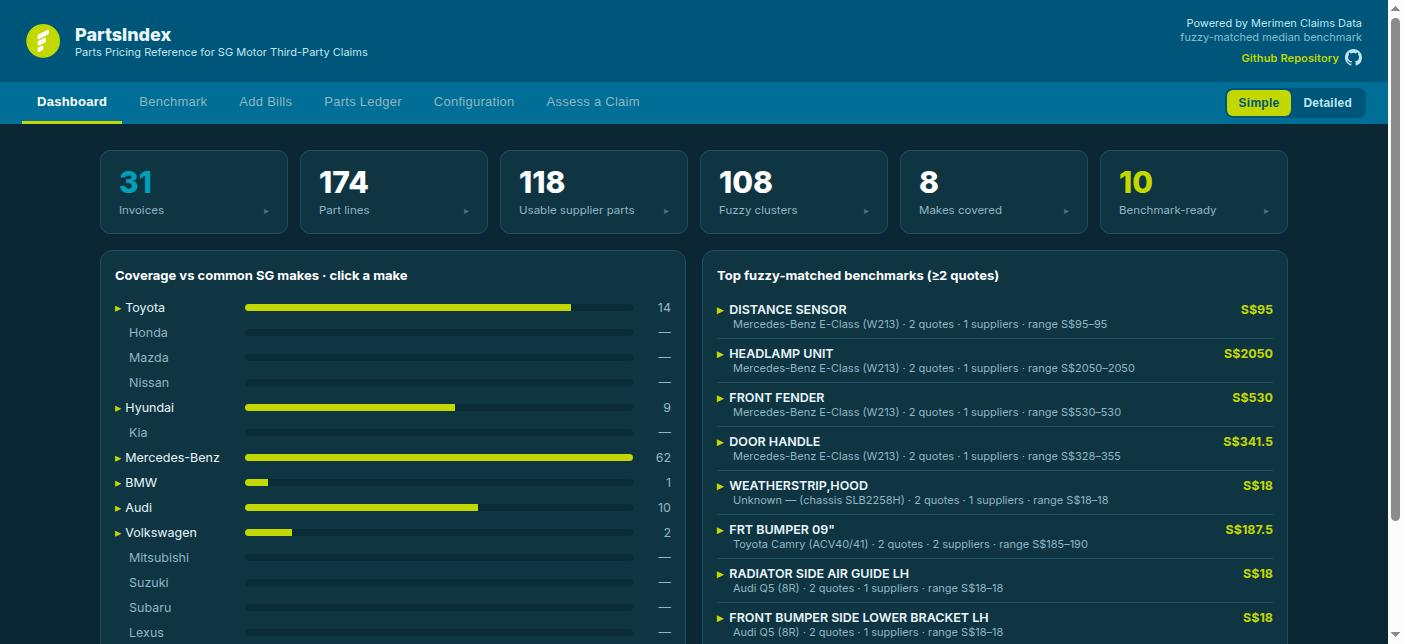
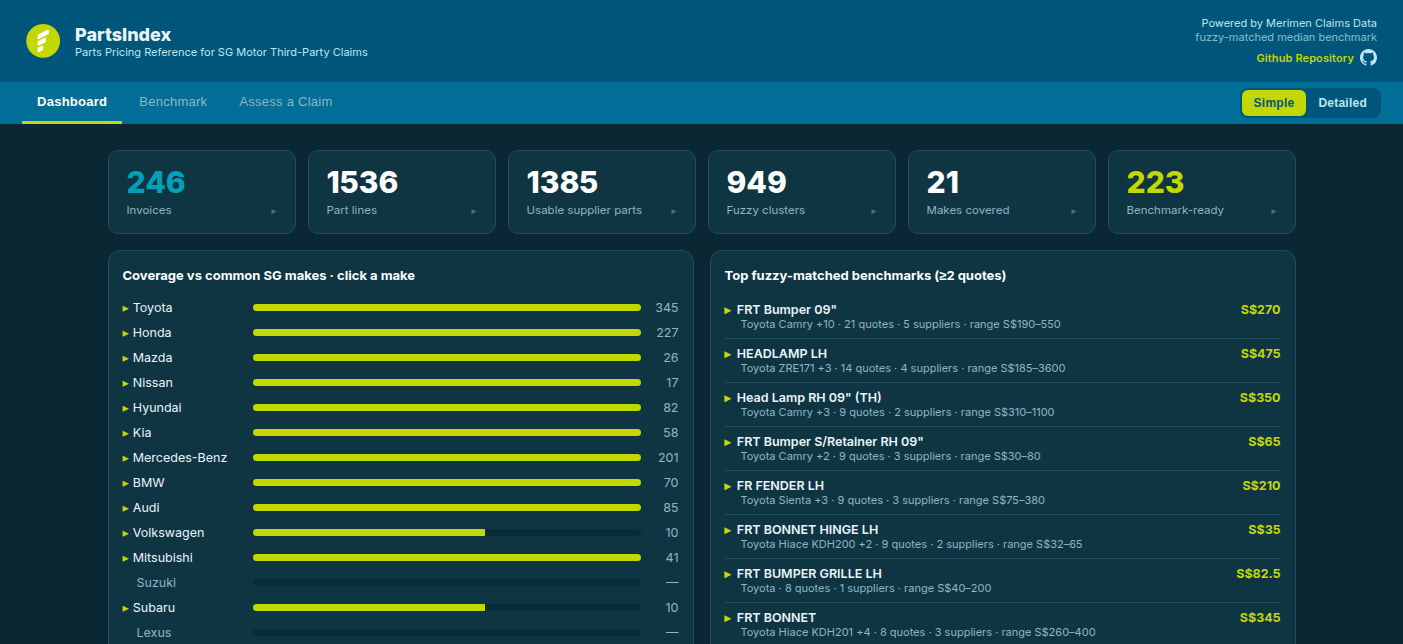
Refresh the docs for handover; retake the README screenshot
Docs only; no change to the app or its numbers.

- HANDOVER §7 summarises the October 2026 checks (OCR second reading,
  part-number lookups, keep the median) and updates the open gaps and
  recommendations, including the two reviewer workbooks still pending.
- README and HANDOVER: Simple mode shows three tabs, not six; there is no
  GitHub Pages workflow in the repo (deploy Pages with npm run deploy).
- README file tree adds QA.md, validation/, tools/backfill-make.mjs and
  ci.yml; limitations give the live coverage figure and October findings.
- OPUS_PROMPTS status brought up to v1.18.0; Fable F3 marked half shipped;
  MANUAL checklist gets the October OCR estimate.
- README screenshot retaken from the current build on the live shared
  reference (1,536 lines) in Simple mode.

diff --git a/HANDOVER.md b/HANDOVER.md
@@ -1,6 +1,7 @@
 # HANDOVER.md — PartsIndex for a new developer
 
-*Written at v1.8.0, July 2026; §7 refreshed at v1.18.0, 29 September 2026.
+*Written at v1.8.0, July 2026; §7 refreshed at v1.18.0, 29 September 2026,
+and again on 20 October 2026 for the October data-validity checks.
 Assumes you know JavaScript and some React, but nothing about this project or
 the insurance domain. Read this top to bottom once; after that,
 [`MANUAL.md`](./MANUAL.md) is the full reference and [`QA.md`](./QA.md) is what
@@ -47,7 +48,8 @@ persists in your browser's `localStorage` (or a shared Turso/libSQL DB when
 cleared — it won't re-seed). The Add Bills tab's **activity log** persists the same
 way (see §4) and every data table is **click-to-sort** on any column. A
 **Simple/Detailed** toggle (top right, persisted per browser) opens in Simple
-by default, hiding Analytics, Coverage and Method Notes; Demo/Benchmark/Ingest
+by default, showing only Dashboard, Benchmark and Assess a Claim (the matching
+settings stay reachable from the top of Benchmark); Demo/Benchmark/Ingest
 were renamed Benchmark/Configuration/Add Bills in v1.15.0 — see §7.
 
 The **"OCR invoices"** button will *not* work locally with plain `vite`,
@@ -65,7 +67,7 @@ src/pipeline.js     ← THE most important file. All pure logic: enrichment,
                        No browser APIs. Imported by the app, the eval
                        harness AND the batch runner — change it and you
                        change all three.
-src/PartsIndex.jsx  ← The entire React UI (~1,330 lines): all tabs, state,
+src/PartsIndex.jsx  ← The entire React UI (~2,000 lines): all tabs, state,
                        persistence glue, Excel parsing, OCR fetch. Also the
                        shared useSort/SortTh table-sort layer and the persistent
                        activity log (logEvent + ActivityLog/ActivityDetail).
@@ -94,10 +96,13 @@ eval/               ← Matcher evaluation harness: generate candidate part
 ```
 
 Docs: `README.md` (deploy + feature overview), `MANUAL.md` (everything,
-including the project history and current limitations in §9),
-`OCR_PROMPT.md` (the extraction prompt explained), `CHANGELOG.md`,
-`OPUS_PROMPTS.md` (ready-to-run implementation prompts for planned work),
-`Fable.md` (the feature roadmap those prompts implement).
+including the project history and current limitations in §9), `QA.md` (what
+the live data actually looks like — read before quoting any figure),
+`OCR_PROMPT.md` (the extraction prompt explained), `Cost-Estimation.md` (OCR
+run costs), `CHANGELOG.md`, `OPUS_PROMPTS.md` (ready-to-run implementation
+prompts for planned work), `Fable.md` (the feature roadmap those prompts
+implement). `validation/2026-10/` holds the workbooks, data snapshots and
+scripts behind QA.md's October 2026 updates (its own `README.md` explains them).
 
 ## 4. The six concepts you must understand
 
@@ -253,8 +258,10 @@ import into Vercel, set `ANTHROPIC_API_KEY` and — on the shared backend —
 `TURSO_DATABASE_URL`, `TURSO_AUTH_TOKEN` and `PARTS_WRITE_TOKEN` in
 project settings. **Without `PARTS_WRITE_TOKEN` set, every `mode:"replace"`
 write is refused** (the guard fails closed by design), so a CLI re-import will
-401 until it exists. Generate one with `openssl rand -hex 32`. GitHub Pages also works (CI workflow included) but the OCR
-button won't function there. Full steps in `README.md`.
+401 until it exists. Generate one with `openssl rand -hex 32`. GitHub Pages also works
+via `npm run deploy` (there is no Pages workflow in the repo; the only workflow,
+`ci.yml`, tests and builds), but the OCR button won't function there. Full
+steps in `README.md`.
 
 ## 7. Current state and what's next
 
@@ -262,7 +269,7 @@ button won't function there. Full steps in `README.md`.
 a Test-mode toggle and a duplicate-line detection gate alongside the
 totals-reconciliation gate), hybrid matcher with grade / basis / model /
 **positional** guards, nine tabs — a Simple/Detailed toggle (Simple by
-default) shows six and hides Analytics/Coverage/Method Notes — including the
+default) shows only Dashboard, Benchmark and Assess a Claim — including the
 stakeholder Benchmark lookup (shared *Min quotes* floor slider, leftmost `+`
 add control) with Worklist and Excel/PDF export, eight analytics views,
 Coverage with a make-vs-grade mix chart against 20 common SG makes, Assess a
@@ -276,8 +283,31 @@ Claude first pass done, adjuster labels still missing — see "Open gaps" below)
 and an opt-in, provisional *Flag name-matched benchmarks* setting.
 
 **The live shared reference** holds 1,536 part lines from 252 invoices (the
-bulk-OCR run has happened). `QA.md` (17 September 2026) is the data-validity
-exercise on it; read it before quoting any figure from the reference.
+bulk-OCR run has happened). `QA.md` (17 September 2026, updated October 2026)
+is the data-validity exercise on it; read it before quoting any figure from
+the reference.
+
+**October 2026 checks (docs and data only, no app release).** Two questions
+from the review call, answered provisionally in `QA.md` §7 and §9 with the
+files in `validation/2026-10/`:
+
+- *Is the OCR reading the bills correctly?* A second reading of 45 bills (474
+  lines) by Claude Opus 5.5 agreed on 96.8% of lines on the random bills, with
+  **0 price differences**; part-number lookups suggest about **3 wrong part
+  numbers per 100 lines**.
+- *Are the wide price ranges real?* Catalogue lookups of 106 lines from 16
+  benchmarks: the prices are plausible (median 1.19× the online genuine-part
+  price), but **42 of the 106 lines are the same part name on a different
+  car** — the S$85–3,600 headlamp range is 10 vehicles. Same conclusion as the
+  gold-set first pass: the fix is matching, not statistics.
+- *Which average?* Mean, median, trimmed mean, geometric mean and
+  Hodges–Lehmann were compared leave-one-out; **the median wins** and stays.
+  Stakeholder write-up: `validation/2026-10/Benchmark_statistic_recommendation_2026-10-16.docx`.
+
+Both answers wait on a person filling in the two `_with_lookups` reviewer
+workbooks in that folder. Unreleased UI changes since 1.18.0 (see CHANGELOG
+"Unreleased"): text columns wrap so the main tables fit without side-scrolling
+in Simple mode, tables fill their card, and the Claim history modal is wider.
 
 **1.18.0** added the **Flag name-matched benchmarks** setting (`cfg.flagNameJoined`),
 labelled PROVISIONAL and off by default. It sits in `MatchConfig`, so it shows on
@@ -375,7 +405,8 @@ missed in 1.12.2 is back in lockstep with package.json, and 3 new self-tests
 `PartsIndex.jsx`, `pipeline.js`, etc. that nothing imported but that invited
 edits which silently changed nothing — `src/` is now the single source of
 truth), added `.gitignore` / `.env.example` / the Pages deploy workflow the
-README already documented, corrected the batch runner's `--max-tokens`
+README already documented (neither the `.gitignore` nor the workflow actually
+reached the repo — see 1.17.3), corrected the batch runner's `--max-tokens`
 header (8192, matching the code and the app), and added
 **`Cost-Estimation.md`** — the cost model and step-by-step procedure for the
 200-invoice ingestion. See CHANGELOG 1.12.2.
@@ -392,7 +423,7 @@ calibration; in the event the data went in first. Every median in the live
 reference therefore rests on merges nobody has checked, and the check now has
 to happen after the fact (gap 1 below).
 
-### Open gaps — as of v1.18.0 (29 September 2026)
+### Open gaps — as of v1.18.0 (refreshed 20 October 2026)
 
 Sources: `QA.md` §10–11 and the v1.12.0 review list this replaces (its fixes —
 the multi-file stale closure, invisible save failures, the P1 positional false
@@ -413,6 +444,9 @@ merge, masked OCR failures, the open proxy, the repo hazards — are recorded in
    evidence? v1.18.0's opt-in flag is the stopgap until this is settled. Settle the LH/RH convention against the `sepSide`
    default in the same session (`QA.md` §5 argues pooling is safe). Everything
    in `QA.md` describes the spread of clusters whose correctness is assumed.
+   The October part-number lookups point the same way (42 of 106 lines were the
+   same part name on a different car; `QA.md` §9 update); a reviewer still has
+   to confirm them in `validation/2026-10/Price_range_check_2026-10-15_plain_with_lookups.xlsx`.
 2. **Thin coverage, overstated reliability.** Only 45 of 949 clusters meet the
    4-quote floor (271 lines, 17.6%). `n` counts lines, not independent
    observations — 8 of those 45 are one price re-quoted. `QA.md` §8 recommends
@@ -421,8 +455,14 @@ merge, masked OCR failures, the open proxy, the repo hazards — are recorded in
    benchmark output, so it belongs in `cfg`.
 3. **OCR errors already in the live data.** 14 part-number pairs differ by one
    misread character (`I`/`1`, `B`/`S`, `9`/`3`), each splitting a cluster; and
-   field bleed between rows (a rivet's part number on a bumper line). Prompt/QA
-   track, not matcher work (`QA.md` §7).
+   field bleed between rows (a rivet's part number on a bumper line). The
+   October second reading puts it at about 3 wrong part numbers per 100 lines,
+   with no price errors — provisional until a person checks the 25 flagged rows
+   and the 34-line blind sample in
+   `validation/2026-10/OCR_accuracy_check_2026-10-15_plain_with_lookups.xlsx`.
+   Prompt/QA track, not matcher work (`QA.md` §7). Related: Lexus parts are
+   stored with make Toyota, so they can join Toyota benchmarks (`QA.md` §9
+   update).
 4. **No operator-side delete.** Since 1.17.3 the UI writes append-only, so bad
    rows cannot be removed — including the 14 stray "Run Log" rows in the live
    reference. `tools/prune-parts.mjs` (token-guarded, snapshot-first like
@@ -449,8 +489,10 @@ merge, masked OCR failures, the open proxy, the repo hazards — are recorded in
      live lines (MANUAL §9, matcher issue 5); parked as too complex for now.
    - The Benchmark-tab worklist is not saved: leaving the tab, reloading or
      toggling Simple/Detailed silently empties it (MANUAL §9).
+   - Side-scrolling: in Simple mode every main table fits from a 1,100 px
+     window; at 1,024 px the Benchmark table is still slightly too wide.
 
-### Recommendations (refreshed September 2026)
+### Recommendations (refreshed October 2026)
 
 - **Label the gold set next**, from live pairs, before any new statistical
   display or presentation of the reference — the review call asked "at 0.65,
@@ -458,6 +500,11 @@ merge, masked OCR failures, the open proxy, the repo hazards — are recorded in
 - **Lead any presentation with the coverage figure** (17.6% of lines can
   price anything at `minQuotes: 4`) — it frames every other number and must
   not be discovered by the audience.
+- **Keep the median as the benchmark** and show the Q1–Q3 band beside it;
+  the October comparison (`QA.md` §9) found no average that does better, and
+  that matching, not the statistic, drives the error.
+- **Get the two October reviewer workbooks filled in** (`validation/2026-10/`)
+  before quoting the OCR error rate or the price-range breakdown as final.
 - **Implement the independence-based `reliable` flag** once the matcher is
   calibrated; both change which clusters are shown as authoritative.
 - **For further OCR runs**, keep `--mode batch` with Sonnet for the first

diff --git a/README.md b/README.md
@@ -13,11 +13,12 @@ Repository: <https://github.com/merimenjason/mm-parts-index> — also linked
 (text + GitHub icon) from the top-right of the app masthead, under
 *fuzzy-matched median benchmark*.
 
-![tabs: Dashboard · Benchmark · Add Bills · Parts Ledger · Configuration · Assess a Claim · Analytics · Coverage · Method Notes](public/screenshot.png)
+![PartsIndex Dashboard in Simple mode on the live shared reference (1,536 part lines): tabs Dashboard · Benchmark · Assess a Claim](public/screenshot.png)
 
-The app opens in **Simple mode** — a Simple/Detailed toggle in the tab bar
-hides Analytics, Coverage and Method Notes until a **Detailed** click is
-needed, so a first-time reviewer isn't handed the full statistical toolkit
+The app opens in **Simple mode**, which shows only the three tabs an assessor
+works in — Dashboard, Benchmark and Assess a Claim. The Simple/Detailed toggle
+in the tab bar brings back Add Bills, Parts Ledger, Configuration, Analytics,
+Coverage and Method Notes when a **Detailed** click is needed, so a first-time reviewer isn't handed the full statistical toolkit
 up front.
 
 ---
@@ -209,11 +210,8 @@ works the same way — move `api/ocr.js` to `netlify/functions/ocr.js`.
 Pages can't run the serverless function, so the OCR button won't work there — the
 Excel-upload path still does. Two ways:
 
-**Automatic (CI):** the included workflow `.github/workflows/deploy-pages.yml`
-builds on every push to `main` and sets the base path to your repo name. In the
-repo → **Settings → Pages**, set **Source: GitHub Actions**. Done.
-
-**Manual:**
+There is no Pages deploy workflow in the repo (the only workflow,
+`.github/workflows/ci.yml`, runs the self-tests and a build), so deploy by hand:
 
 ```bash
 npm run deploy     # builds with VITE_BASE=/partsindex/ and pushes to gh-pages
@@ -230,16 +228,16 @@ Then **Settings → Pages → Source: `gh-pages` branch**. If your repo isn't na
 |---|---|
 | **Dashboard** | KPI tiles (click any tile to drill into it), make-coverage bars, top fuzzy-matched benchmarks — **click a part to expand its quotes** |
 | **Benchmark** | Stakeholder-facing benchmark lookup: filter by make/model, part name or number (normalisation-aware), or global search → **median & mean** per part; a **Min quotes for reliable spread** slider (1–30, shared with Configuration) tunes the `*` floor here too; click a row for every source quote (supplier · bill · date · grade · price · OCR/Excel). Add parts to a **Worklist** with the `+` in the **leftmost column** (each worklist row expands to its source quotes) and export it — with evidence — to **Excel** or **PDF**. The worklist is not saved: leaving the tab, reloading or switching Simple/Detailed clears it |
-| **Add Bills** | Excel upload, live OCR (with a "Test mode" toggle to preview an OCR read without saving it), reload-demo, export, clear, a held-for-review queue with a reason breakdown (totals mismatch / duplicate line), and a **persistent, drill-downable activity log** (timestamped events, click to expand detail, filter by kind) |
-| **Parts Ledger** | Every enriched line with Make/Model columns; **sortable** columns; search + filter by make / line-type |
-| **Configuration** | Hybrid matching configuration (part-number-first, optional name bridging) + the median table with Make, Model, Basis and **IQR band** columns and a **Min quotes for reliable spread** floor slider (1–30, default 4); click a row to see the grouped quotes |
+| **Add Bills** *(Detailed mode)* | Excel upload, live OCR (with a "Test mode" toggle to preview an OCR read without saving it), reload-demo, export, clear, a held-for-review queue with a reason breakdown (totals mismatch / duplicate line), and a **persistent, drill-downable activity log** (timestamped events, click to expand detail, filter by kind) |
+| **Parts Ledger** *(Detailed mode)* | Every enriched line with Make/Model columns; **sortable** columns; search + filter by make / line-type |
+| **Configuration** *(Detailed mode)* | Hybrid matching configuration (part-number-first, optional name bridging) + the median table with Make, Model, Basis and **IQR band** columns and a **Min quotes for reliable spread** floor slider (1–30, default 4); click a row to see the grouped quotes |
 | **Assess a Claim** | Paste a repairer estimate, or **upload** the estimate PDF/image for Claude OCR → line-by-line variance vs the benchmark, total potential over-claim, % flags, and an **ABOVE BOUND** flag for lines past the Tukey outlier fence; **Export Detailed Report** produces the attachable audit trail; **Save to claim history** keeps the assessment (plus any workshop/plate/make/model OCR found) for later, reopened via the **Claim history** modal |
 | **Analytics** *(Detailed mode)* | All 8 methods, selectable — the median-benchmark view is also click-to-expand |
 | **Coverage** *(Detailed mode)* | Make & category coverage vs the success criteria; a **Grade mix by make** chart |
 | **Method Notes** *(Detailed mode)* | What each analytic computes and why |
 
 A **Simple / Detailed** toggle in the tab bar (top right) switches between a
-lean six-tab view (default) and all nine tabs; the choice persists per browser.
+lean three-tab view (default) and all nine tabs; the choice persists per browser.
 
 In the browser-only build the **18-bill demo loads automatically on the first
 visit only**. A `partsindex_seeded_v1` marker is written the first time this
@@ -487,6 +485,7 @@ partsindex/
 ├─ HANDOVER.md                    ← onboarding handover for a new developer
 ├─ Fable.md                       ← feature roadmap (F1–F7, elaborated)
 ├─ OPUS_PROMPTS.md                ← ready-to-run implementation prompts (P1–P15) + status
+├─ QA.md                          ← data-validity findings on the live reference (read before quoting figures)
 ├─ OCR_PROMPT.md                  ← tuned prompt for OCR-ing the 200 invoices
 ├─ Cost-Estimation.md             ← cost model + step-by-step instructions for the 200-invoice ingestion
 ├─ index.html
@@ -500,7 +499,7 @@ partsindex/
 │  ├─ claims.js                   ← serverless Claim History endpoint (GET/POST/DELETE → shared DB)
 │  └─ _db.js                      ← libSQL/Turso client + schema (parts + activity + claims) + upsert (server-only, holds the token)
 ├─ .github/workflows/
-│  └─ deploy-pages.yml            ← CI deploy to GitHub Pages
+│  └─ ci.yml                      ← self-tests + production build on every push to main/new and every PR
 ├─ public/
 │  ├─ favicon.ico / favicon-32.png / favicon-128.png   ← Merimen "f" browser icon
 │  ├─ apple-touch-icon.png
@@ -517,10 +516,13 @@ partsindex/
 │  ├─ results.csv                 ← sweep output from the worked example — do not cite
 │  └─ results.provisional.csv     ← sweep over Claude's first-pass labels — provisional, do not cite
 ├─ tools/
+│  ├─ backfill-make.mjs           ← one-off: recover the vehicle make from bill filenames for rows already stored
 │  ├─ batch-ocr.mjs               ← bulk OCR runner for the 200-invoice run (resumable, validating)
 │  ├─ db-init.mjs                 ← npm run db:init / db:seed — create the libSQL schema, optionally seed the demo
 │  ├─ mock-server.mjs             ← local fake of the API for offline testing
 │  └─ selftest.mjs                ← npm run test:tools — validation/dedup/manifest/dispute-pack tests
+├─ validation/
+│  └─ 2026-10/                    ← October 2026 OCR + price-range checks: reviewer workbooks, data snapshots, scripts (own README)
 └─ src/
    ├─ main.jsx
    ├─ index.css
@@ -535,12 +537,13 @@ partsindex/
 
 ## Limitations
 
-- **Sample size.** Benchmarks firm up only as the same part recurs across bills; the demo's 18 bills are illustrative, the incoming **200** are what make it real.
+- **Sample size.** Benchmarks firm up only as the same part recurs across bills. The demo's 18 bills are illustrative; on the live reference (1,536 lines from 252 invoices) only 45 of 949 clusters reach the 4-quote floor — see QA.md §1.
 - **Accuracy (POC#2).** Quantifying TP inflation in dollars needs **matched triples** per claim (supplier-bill cost + repairer estimate + insurer final offer). The app ships the framework; feed it matched claim data to get hard numbers.
 - **Live OCR** requires the serverless proxy; never embed an API key in the static bundle. Large multi-page bills may need chunking due to output token limits.
 - **The proxy has no per-user auth.** `api/ocr.js` hides the API key, allowlists models and caps tokens (v1.12.0), and can require a shared secret — but that secret ships in the client bundle, so it deters drive-by abuse only. Add per-user auth or Vercel password protection before the URL circulates.
 - **`localStorage` is bounded (~5 MB).** A failed write raises a visible error event in the activity log (v1.12.0), but there is no proactive quota meter. Export to Excel regularly during large ingests.
-- **Matcher calibration is pending.** The gold set was regenerated from the live reference (203 pairs + 22 auto) and has a Claude first pass, but no adjuster labels yet, so the shipped 0.65 threshold is uncalibrated. Provisionally, name-only matching looks unreliable at any threshold — see QA.md §10 and the opt-in *Flag name-matched benchmarks* setting (v1.18.0). MANUAL.md §9 has the calibration checklist.
+- **Matcher calibration is pending.** The gold set was regenerated from the live reference (203 pairs + 22 auto) and has a Claude first pass, but no adjuster labels yet, so the shipped 0.65 threshold is uncalibrated. Provisionally, name-only matching looks unreliable at any threshold — see QA.md §10 and the opt-in *Flag name-matched benchmarks* setting (v1.18.0). MANUAL.md §9 has the calibration checklist. The October 2026 part-number lookups (QA.md §9) agree: the widest price ranges are mostly the same part name on different cars.
+- **OCR part-number misreads.** A second reading of 45 bills found no price errors but about 3 wrong part numbers per 100 lines (QA.md §7, provisional until a reviewer checks the workbook in `validation/2026-10/`).
 
 See **[`MANUAL.md`](./MANUAL.md)** for the full manual and the step-by-step
 project history, and **[`CHANGELOG.md`](./CHANGELOG.md)** for the version

diff --git a/OPUS_PROMPTS.md b/OPUS_PROMPTS.md
@@ -1,4 +1,4 @@
-# PartsIndex — Opus implementation prompts (status as of v1.13.0)
+# PartsIndex — Opus implementation prompts (status as of v1.18.0)
 
 Paste each prompt into Opus (Claude Opus 5 as of 24 July 2026) **run from the
 repo root** so it can read the real
@@ -23,6 +23,27 @@ pre-run blocker is **P2**.
 `decideInit` in `src/pipeline.js`) closed a related failure mode of P4 — a lost
 dataset key silently reseeding the demo over real data. This is distinct from the
 open proactive quota **meter**, which P4 still tracks.
+
+**Status update at v1.18.0 (October 2026).** Read each prompt's own text as
+written at its version; where later releases did part of the work, adapt it:
+
+- **P2** — still open and still the top priority. The gold set was regenerated
+  from the live reference (23 September 2026) and has a Claude first pass, but
+  no adjuster labels. Do not calibrate on Claude's labels.
+- **P5** — half done. The recency window (`cfg.maxAgeYears`, v1.17.0) covers the
+  date side; GST normalisation is still open.
+- **P7** — partly covered by Claim History (v1.16.0), which keeps the result and
+  config snapshot of any assessment someone saves. Arbitrary past snapshots
+  still can't be regenerated.
+- **P8 (F1)** — **done** in v1.14.0 (estimate OCR on Assess a Claim).
+- **P10 (F3)** — the hard date window shipped in v1.17.0; time-decay weighting
+  is still open. Skip the window half of the prompt.
+- **P15** — partly done in v1.17.3/1.17.4: `POST /api/parts` defaults to
+  append, `replace` needs the `PARTS_WRITE_TOKEN` operator token (fails closed)
+  and snapshots the old rows first. Optimistic concurrency (409), server-side
+  shape checks, the migration runner and `db:dump` are still open. The prompt's
+  `PARTSINDEX_WRITE_KEY` name is superseded by `PARTS_WRITE_TOKEN`.
+- P6, P9, P11–P14 unchanged.
 
 P8–P14 implement the **new features** elaborated in [`Fable.md`](./Fable.md)
 (F1–F7 — read the matching Fable.md section before running each prompt; it

diff --git a/CHANGELOG.md b/CHANGELOG.md
@@ -28,6 +28,15 @@ Docs and layout only — no change to the app's numbers.
 - **Tables fill their box.** A table narrower than its box (for example a saved
   claim in Claim history) now stretches to the full width instead of leaving a
   gap on the right.
+- **Handover refresh (20 Oct 2026).** HANDOVER §7 summarises the October checks
+  and updates the open gaps and recommendations; README and HANDOVER no longer
+  claim a GitHub Pages deploy workflow (it was never committed — deploy Pages
+  with `npm run deploy`); the README file tree gains `QA.md`, `validation/`,
+  `tools/backfill-make.mjs` and `ci.yml`; OPUS_PROMPTS' status block is brought
+  up to v1.18.0 (P8 done; P5, P7, P10 and P15 partly done). README and
+  HANDOVER now say Simple mode shows three tabs (Dashboard, Benchmark, Assess
+  a Claim), not six, and the README screenshot is retaken from the current
+  build on the live shared reference (1,536 lines) instead of the demo data.
 - **Docs brought in line with 1.18.0 and the live gold set.** `QA.md` §10 gains
   a dated update (gold set regenerated, Claude first pass, provisional reading,
   side findings) and §11 new open items; `README.md`, `MANUAL.md` §9,

diff --git a/Fable.md b/Fable.md
@@ -1,6 +1,6 @@
 # Fable.md — PartsIndex feature roadmap (v1.8.0 analysis)
 
-*Written against PartsIndex v1.8.0, July 2026. Codebase analysed: `src/pipeline.js`
+*Written against PartsIndex v1.8.0, July 2026 (status lines updated to v1.18.0). Codebase analysed: `src/pipeline.js`
 (489 lines, pure), `src/PartsIndex.jsx` (~1,230 lines, UI + glue),
 `tools/batch-ocr.mjs`, `eval/`, `api/ocr.js`, and all project docs.*
 
@@ -150,6 +150,8 @@ displayed as a decoded model name. The design above respects that line.
 
 ## F3 — Recency-aware benchmarks: date window + time-decay weighting
 
+**Status: HALF SHIPPED. The date window (`cfg.maxAgeYears`) shipped in v1.17.0;
+time-decay weighting is still open.**
 **When: post-run (needs the multi-year spread the 200 invoices bring).
 Depends on: P5's `parseDate` hardening (dot/dash/ISO formats). Effort: M.
 Risk: medium — every number changes when enabled, so snapshot discipline is

diff --git a/MANUAL.md b/MANUAL.md
@@ -699,7 +699,8 @@ which to close that gap. Findings on the live data are in [`QA.md`](./QA.md).
    --dry-run`, then `--limit 5` checked against the source PDFs, then the full
    folder with `--mode batch`; keep the 5% eyeball sample, since the
    reconciliation gate catches amount misreads but not part-number misreads
-   (`QA.md` §7 found 14 in the live data). On the localStorage build, export
+   (`QA.md` §7 found 14 in the live data, and the October 2026 second reading
+   puts it at about 3 per 100 lines). On the localStorage build, export
    the dataset to Excel straight after import as a storage-quota safety net.
 
 ---
